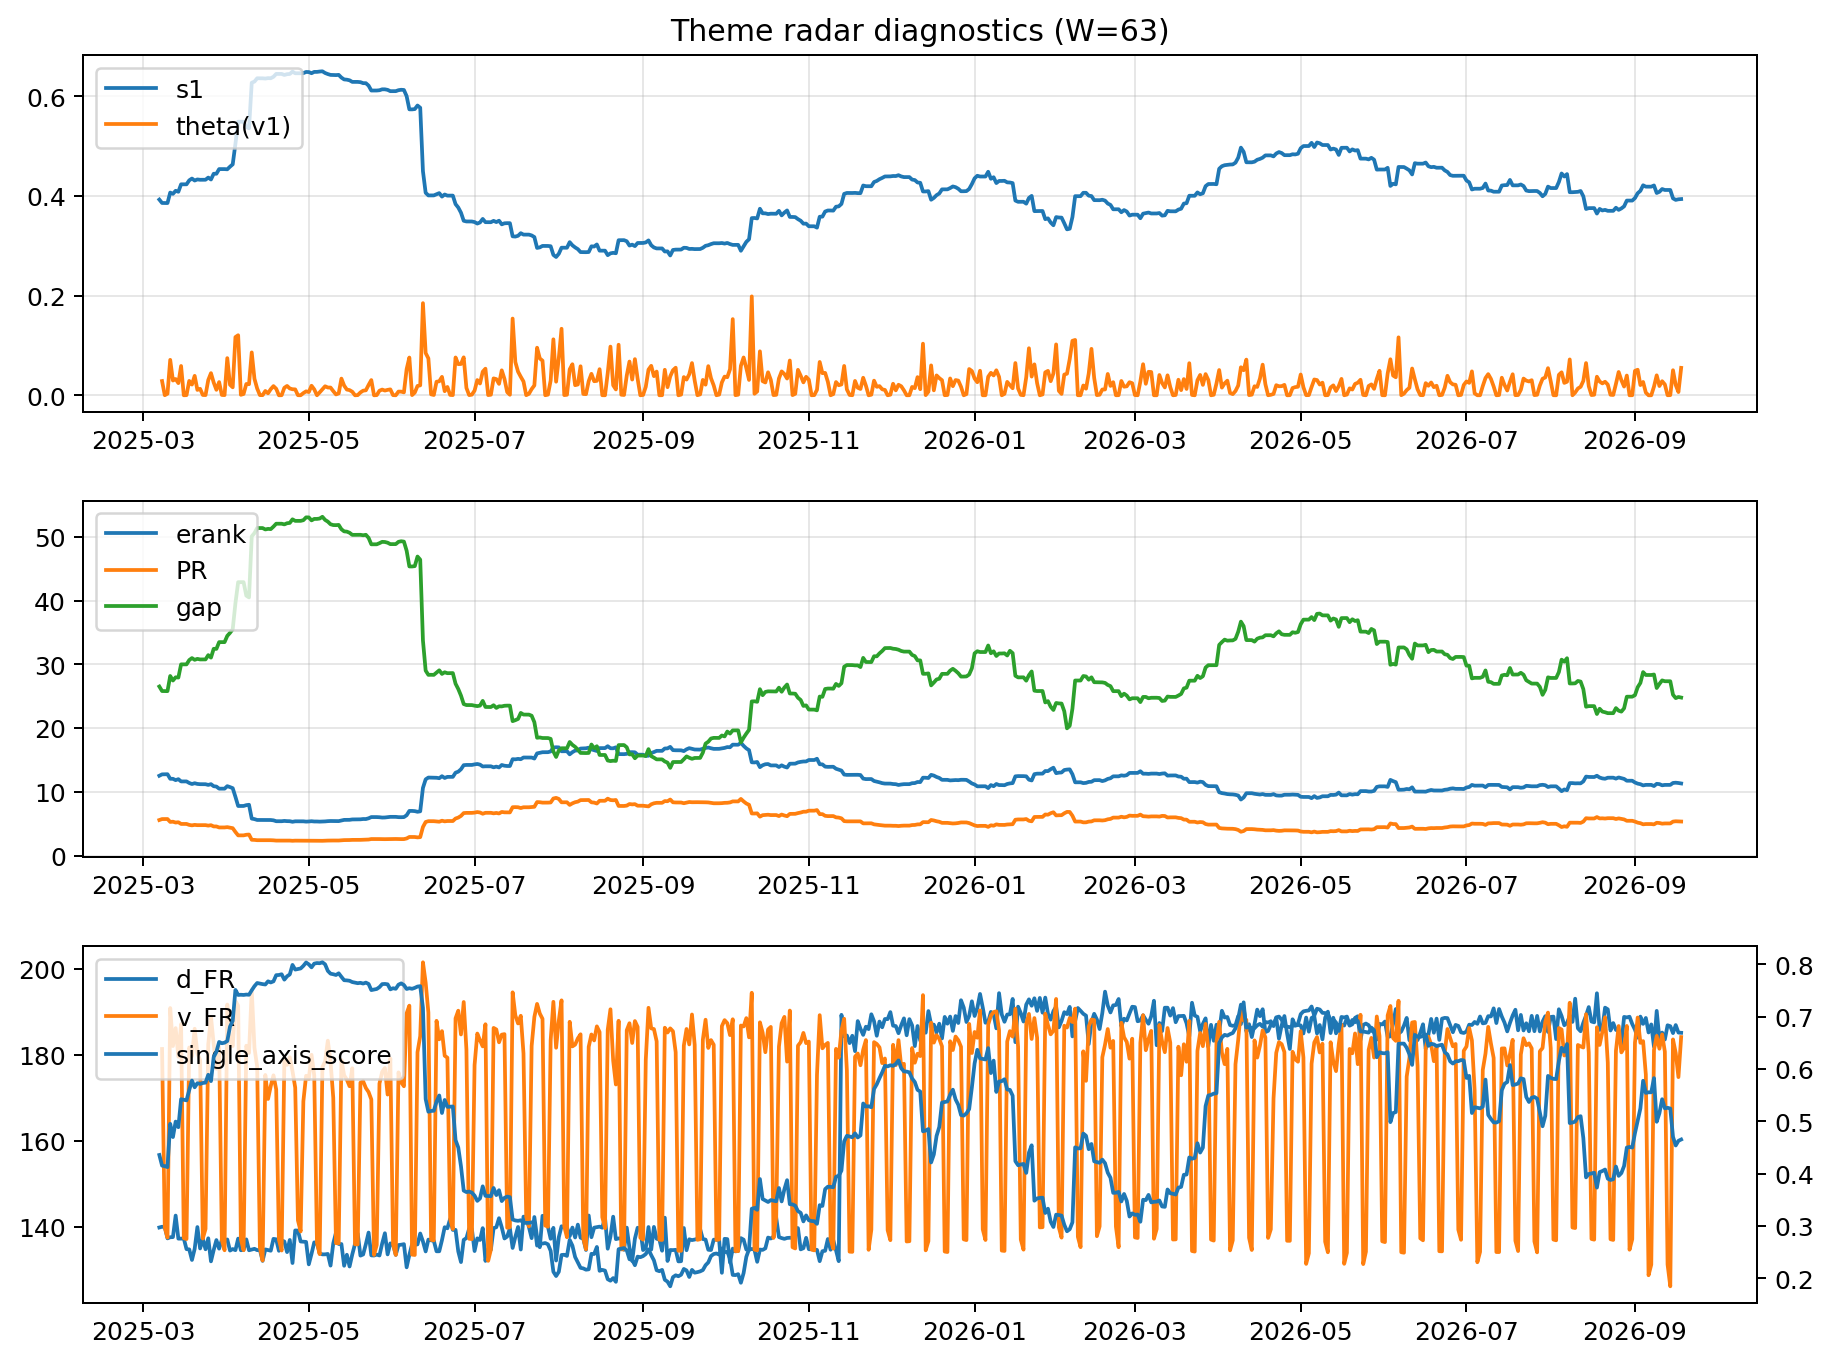
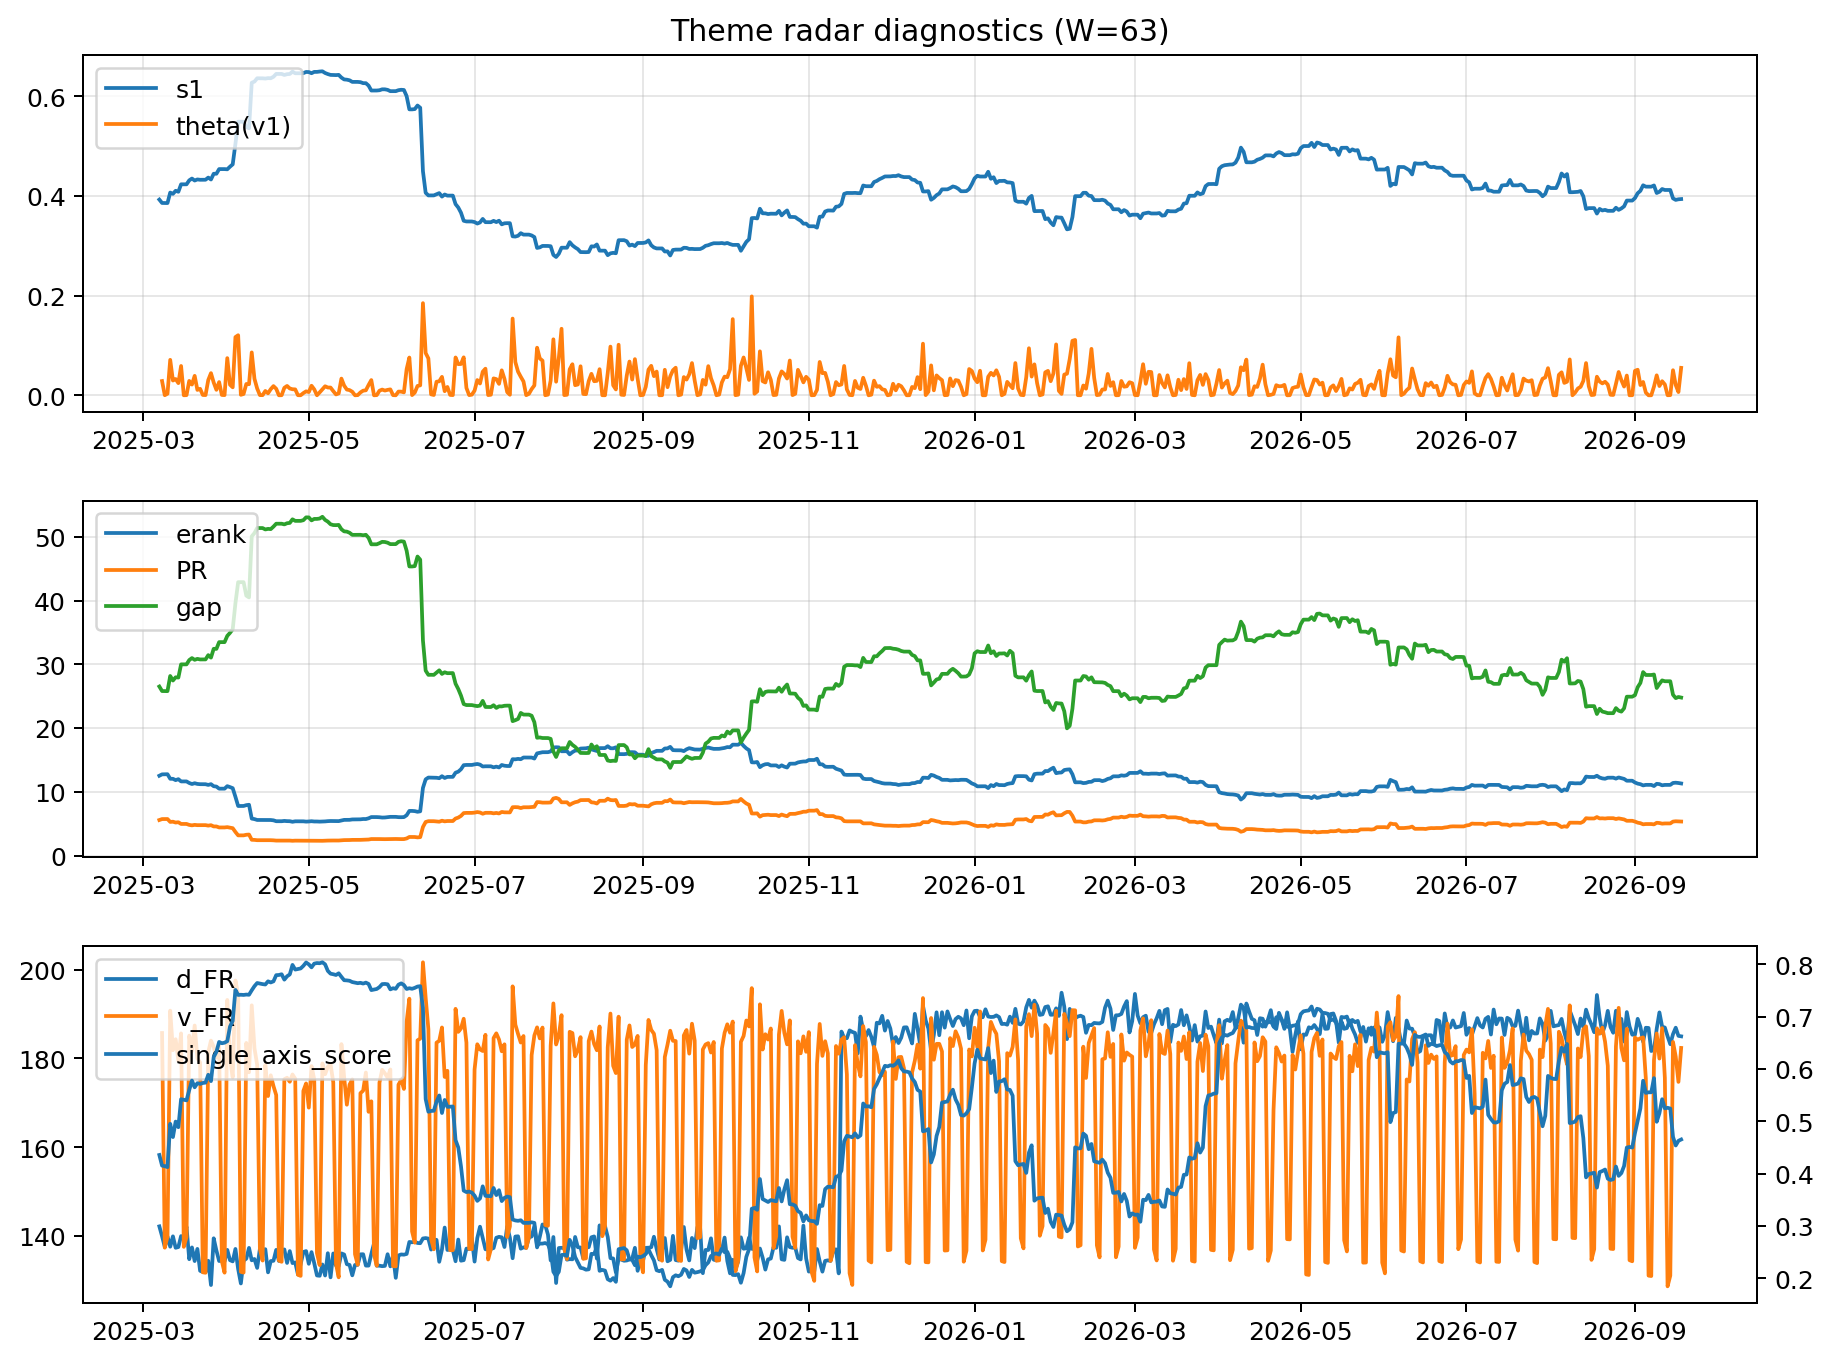
log: 2026-09-18 | sha256:03d4d9655d853118b271111d662966326962d07ef8e5bd213f4d1424cfa769d0

diff --git a/logs/2026-09-18.md b/logs/2026-09-18.md
@@ -3,43 +3,43 @@
 ![diagnostic W63](../assets/diagnostic/2026-09-18_W63.png)
 
 ## Leaders (v1) — W=63
-- **Nuclear_Uranium** (0.0844200719991719)
-- Semis (0.0698280056382629)
-- Quantum (0.0638369964312046)
+- **Nuclear_Uranium** (0.0844200643436592)
+- Semis (0.0698279954629848)
+- Quantum (0.0638369901355191)
 
 ## Challengers — W=63
-**v2:** Rates (0.0842019816089879), Semis (0.0811283076088506), Genomics_Bio (0.0752072247267278)
-**v3:** Metals (0.0787402177638084), Crypto (0.0639808093720507), Software_Cloud (0.0636284933168725)
+**v2:** Rates (0.0842020970308226), Semis (0.0811282623580584), Genomics_Bio (0.0752072052717632)
+**v3:** Metals (0.0787401503969547), Crypto (0.0639806746552063), Software_Cloud (0.0636286258067567)
 
 ## Migration (20D slope) — W=63
 **Top risers:**
-- axis_DataCenter_Infra: 0.0006245478299109
-- axis_Genomics_Bio: 0.0003740327278043
-- axis_MegaCap_AI: 0.0003185028715769
-- axis_Space: 0.0001716585677877
-- axis_Sector_Fin: 0.0001235860272588
-- axis_Drones_Autonomy: 0.0001090252533287
-- axis_Sector_Materials: 9.129553060962018e-05
-- axis_Metals: 6.803514609793145e-05
-- axis_Commodities: 4.9264639529817126e-05
-- axis_Credit: 4.201975873534932e-05
+- axis_DataCenter_Infra: 0.0006245474393913
+- axis_Genomics_Bio: 0.0003740322476825
+- axis_MegaCap_AI: 0.0003185024647216
+- axis_Space: 0.0001716579016197
+- axis_Sector_Fin: 0.0001235860742655
+- axis_Drones_Autonomy: 0.0001090249666534
+- axis_Sector_Materials: 9.129552682945843e-05
+- axis_Metals: 6.803483515834579e-05
+- axis_Commodities: 4.926448395996462e-05
+- axis_Credit: 4.202025233430436e-05
 
 **Top fallers:**
-- axis_Semis: -5.886807316406576e-05
-- axis_Sector_Utilities: -7.143554616652835e-05
-- axis_Defense: -7.401567491429466e-05
-- axis_Critical_Minerals: -0.0001131732168967
-- axis_Sector_Health: -0.0001353856454699
-- axis_Sector_ConsStap: -0.0001421803289876
-- axis_Sector_Energy: -0.000219675535297
-- axis_Sector_RealEstate: -0.0003018158775033
-- axis_Cyber: -0.0003248059958398
-- axis_Nuclear_Uranium: -0.0004106319562411
+- axis_Semis: -5.886804118099518e-05
+- axis_Sector_Utilities: -7.143564055976774e-05
+- axis_Defense: -7.401574597173465e-05
+- axis_Critical_Minerals: -0.0001131734154311
+- axis_Sector_Health: -0.0001353856623648
+- axis_Sector_ConsStap: -0.000142180242995
+- axis_Sector_Energy: -0.0002196755135268
+- axis_Sector_RealEstate: -0.0003018158187196
+- axis_Cyber: -0.0003248057647714
+- axis_Nuclear_Uranium: -0.0004106327715319
 
 ## Risk line (W=63)
-- s1: 0.393622665269457
-- theta_v1: 0.0550401129187121
-- v_FR: 184.1092036864937
+- s1: 0.3936227579661348
+- theta_v1: 0.0550401510126598
+- v_FR: 182.367882142218
 - single_axis_score: 0.4652406417112299
 
 ## Interpretation
@@ -48,7 +48,7 @@
 - Action: Tomorrow watchlist: DataCenter_Infra, Genomics_Bio, MegaCap_AI, Space, Sector_Fin + v2_top1=Rates
 - Action: Hedge note: normal correlation stability.
 
-- Percentiles (W=63 history): vfr_pct=0.72, theta_pct=0.89, s1_pct=0.40, score_pct=0.43.
+- Percentiles (W=63 history): vfr_pct=0.61, theta_pct=0.89, s1_pct=0.40, score_pct=0.43.
 
 ---
[2 lines of base64/hex data omitted]
